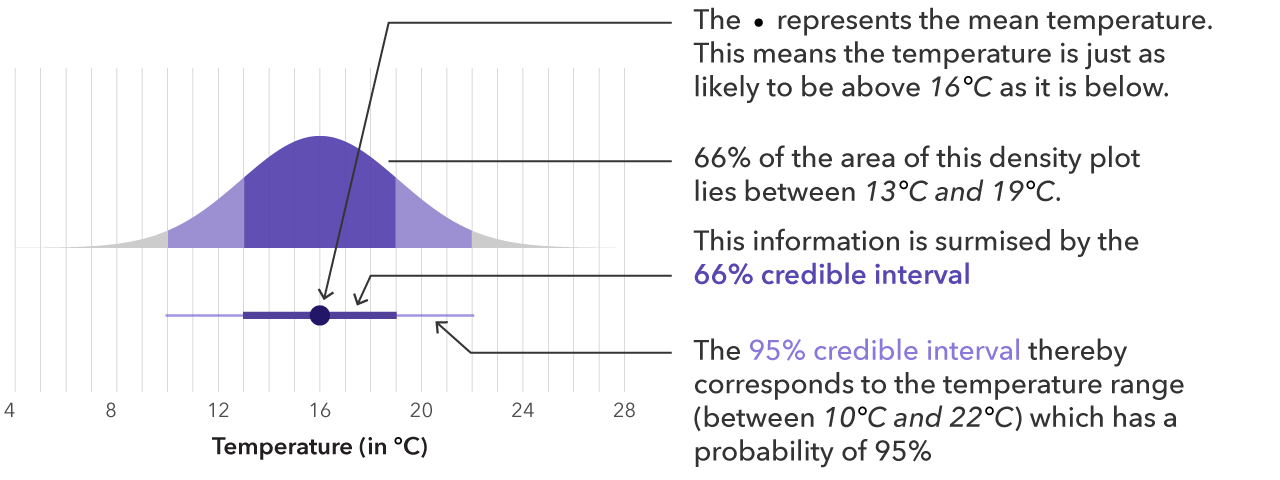
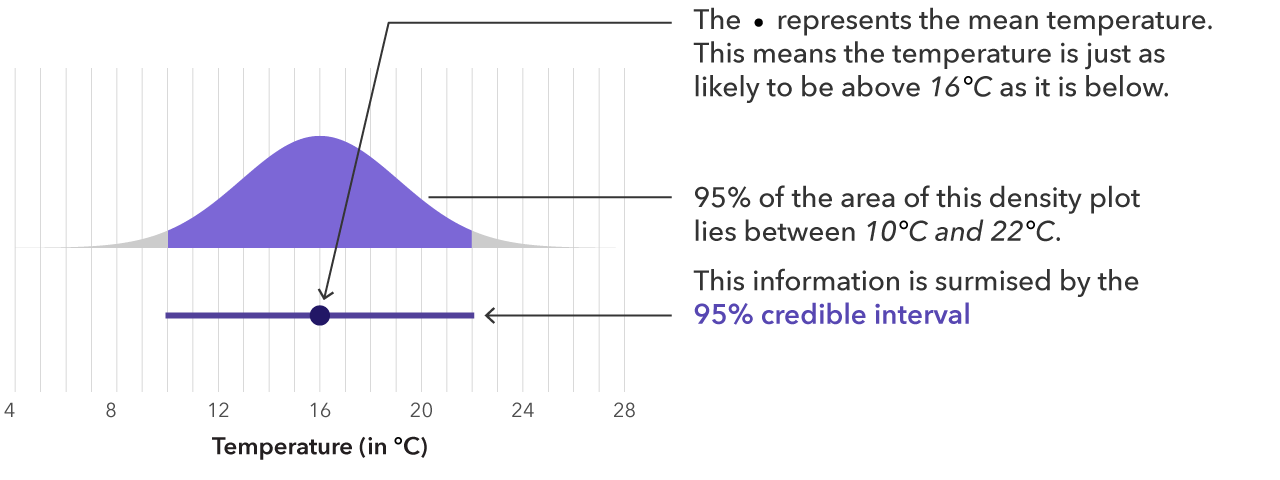
fixes for devin comments

Changed region(s): [[0.125, 0.2812, 0.9062, 0.75], [0.5312, 0.7812, 0.9375, 0.9688], [0.125, 0.625, 0.2188, 0.6875]]

diff --git a/public/incentives-dm/assets/02-tutorial-ci.md b/public/incentives-dm/assets/02-tutorial-ci.md
@@ -20,5 +20,3 @@ The graph can be interpreted as follows:
 
 <img style="" src="./incentives-dm/assets/img/tutorial/tutorial-03-ci.png" alt="dist-explanation" width="37.5%"/><br/>
 
-<img style="" src="./incentives-dm/assets/img/tutorial/tutorial-04-ci.png" alt="dist-interval66_95-explanation" width="66.5%"/>
-
